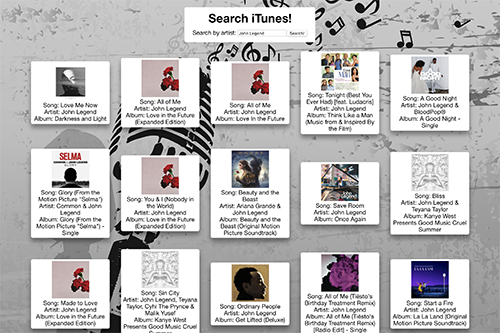
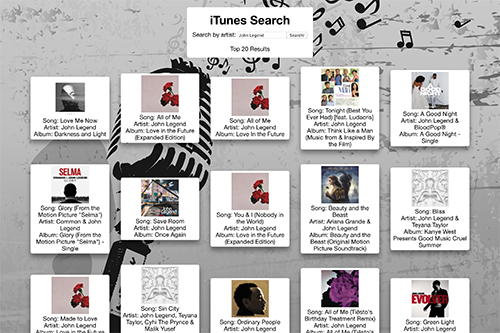
changed itunes name

diff --git a/index.html b/index.html
@@ -93,7 +93,7 @@
                         </div>
                     </div>
                     <div class="imgCaption">
-                        Search iTunes!
+                        iTunes Search
                     </div>
                 </div>
             </a>
